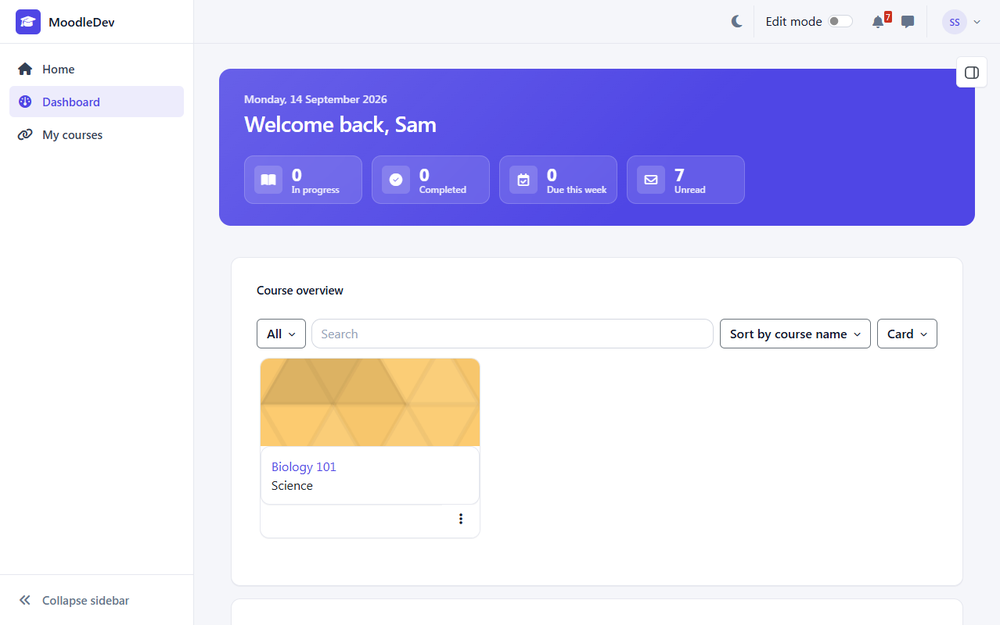
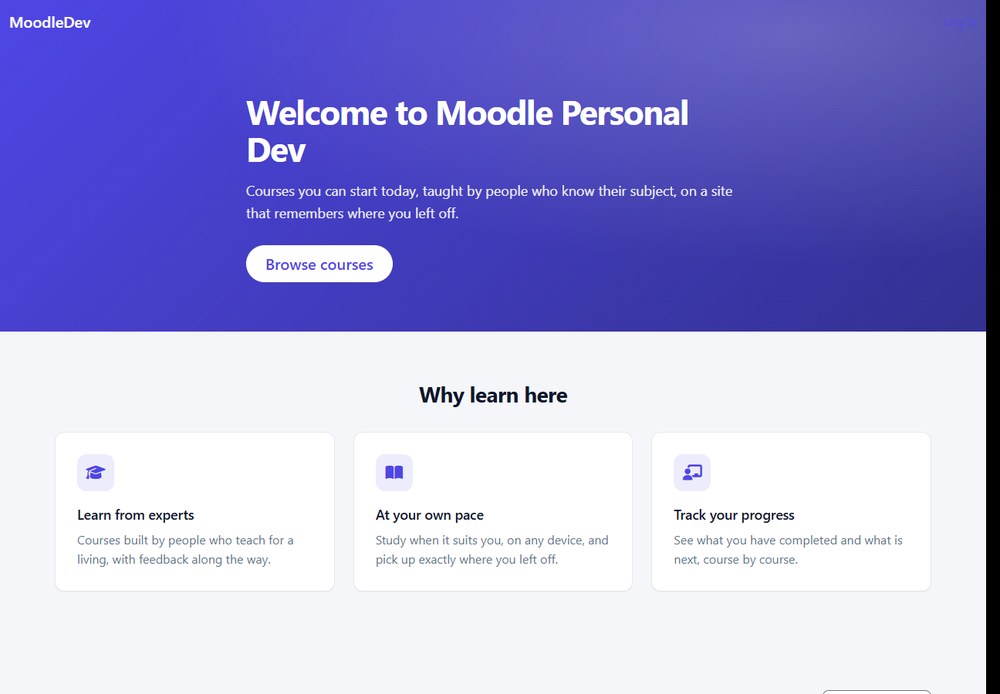
Release 1.1.0: docs, listing copy, screenshots, version

diff --git a/lang/en/theme_atrium.php b/lang/en/theme_atrium.php
@@ -68,7 +68,7 @@ $string['catalogue_view'] = 'View';
 $string['catalogue_view_grid'] = 'Grid';
 $string['catalogue_view_list'] = 'List';
 $string['cataloguesettings'] = 'Catalogue';
-$string['choosereadme'] = 'Atrium is a modern Boost child theme: a left navigation sidebar that collapses to icons, a card dashboard with a greeting and progress tiles, a card course page, dark mode with a per-user switch, five colour presets, a centred login card over a full-bleed image, and a configurable footer. Fonts are bundled; the theme makes no requests to outside services.';
+$string['choosereadme'] = 'Atrium is a modern Boost child theme: a left navigation sidebar that collapses to icons, a designed front page, a course catalogue of cards, a course landing page for enrolment, a card dashboard with a greeting and progress tiles, a card course page with a focus mode, dark mode with a per-user switch, five colour presets, three login layouts, and a configurable footer. Fonts are bundled; the theme makes no requests to outside services unless you turn analytics on.';
 $string['collapsesidebar'] = 'Collapse sidebar';
 $string['configtitle'] = 'Atrium settings';
 $string['course_complete'] = 'Completed';

diff --git a/version.php b/version.php
@@ -25,8 +25,8 @@
 defined('MOODLE_INTERNAL') || die();
 
 $plugin->component = 'theme_atrium';
-$plugin->version = 2026091500;
-$plugin->release = '1.0.0';
+$plugin->version = 2026091501;
+$plugin->release = '1.1.0';
 $plugin->requires = 2025100600; // Moodle 5.1: Boost on Bootstrap 5, the layouts this theme overrides.
 $plugin->supported = [501, 502];
 $plugin->maturity = MATURITY_STABLE;

diff --git a/README.md b/README.md
@@ -23,9 +23,17 @@ requests to outside services.
 | Course page | Sections as cards, activities as rows, with the activity icon in its purpose colour. No template is overridden: editing mode, drag and drop, bulk editing and the activity chooser are Boost's. |
 | Dark mode | A per-user switch in the navigation bar and in the user menu, saved as a preference. The scheme is applied on the server before the page is sent, so there is no flash on load. A site default of light, dark, or *follow the device*. Dark mode can be disabled site-wide. |
 | Presets | Five colour presets, each an accent and a sidebar tone. A brand colour setting overrides the accent; a sidebar tone setting overrides the tone. |
-| Login | One card centred over a full-bleed image with a colour wash whose colour and strength are settings. |
-| Footer | Up to three content columns, social links, a legal line with `{year}` and `{sitename}`, and the Moodle credit as a setting. |
-| Type | Inter, bundled in four weights, with a system fallback stack. Text size and corner radius are settings. |
+| Front page | A designed site home for visitors: hero with image and two buttons, feature blocks, a course showcase (latest, a category, or chosen courses), a numbers strip, testimonials, an about band and a call to action. Every section is a setting and has a switch. |
+| Catalogue | Category and search pages as course cards or a list: image, category, teachers, enrolled count, progress for enrolled users, and the price from fee or PayPal enrolment. Category chips, sort, paging, a search box; the view is remembered per user. |
+| Enrolment page | A course landing page around the enrolment forms: banner, summary, facts, outline, teachers, related courses, and the enrolment card kept in view. |
+| Course banner and focus mode | A banner with the learner's progress and a resume link. Focus mode strips the course and its activities down to the content, with one switch, remembered per user. |
+| Announcement and quick links | A site-wide bar with four tones, dismissible per user until the text changes; a quick links menu of icon links in the navigation bar. |
+| Profile | Core's profile sections as a grid of cards under a cover band. |
+| Login | Three layouts: the card centred over the image, or beside an image panel on the left or the right, with panel copy, text above and below the form, the language menu switch, and "Create new account" as a button. Sign up, forgotten password and MFA share the card. |
+| Header | Brand as logo, site name or both; standard or compact bar; sticky or scrolling; transparent over the front page hero. |
+| Footer | Up to four columns, each custom HTML, a menu, the social links or the contact details; a footer logo, a legal line with `{year}` and `{sitename}`, privacy and terms links, the Moodle credit as a setting. |
+| Type | Inter, bundled in four weights, or the system font. Heading weight, text size and corner radius are settings. |
+| The long tail | Gradebook, quiz, question bank, calendar, messaging, forum, assignment, workshop, backup, participants, admin pages and the rest, on the same tokens in both schemes. |
 
 ## Where it sits beside Boost and the paid themes
 
@@ -35,7 +43,8 @@ requests to outside services.
 | Dashboard | Blocks | Hero, tiles, styled cards | Hero, four tiles, styled cards |
 | Dark mode | No | Some | Yes, per user, no flash |
 | Presets | One | Many, plus a page builder | Five, no builder |
-| Front page builder | No | Yes | No (planned for 1.1) |
+| Front page | Course list | Page builder | Seven designed sections, each a setting |
+| Catalogue and enrolment page | Lists and forms | Cards and a landing page | Cards and a landing page |
 | Fonts | System | Google Fonts, fetched | Bundled, nothing fetched |
 | Price | Free | Paid | Free, GPL |
 
@@ -45,18 +54,27 @@ formats, form builders and page builders are separate plugin types and are not h
 ## How it is built, and why it should survive upgrades
 
 Every template override is a maintenance liability, because core may change what the
-parent template expects. Atrium overrides **four**:
+parent template expects. Atrium overrides **four** Boost templates:
 
 | Template | Why |
 |---|---|
 | `theme_boost/drawers` | Renders the sidebar and the dashboard hero. Copied from Moodle 5.2; Boost's drawers are left as Boost renders them. |
 | `theme_boost/navbar` | Drops the primary navigation (the sidebar carries it), shows the brand only on small screens, adds the scheme switch. |
 | `theme_boost/footer` | A real footer instead of Boost's popover. Every link and fragment the popover contained is still rendered. |
-| `theme_boost/login` | The centred card, on both 5.1 (form rendered into the page) and 5.2 (split `core/login_layout`). |
+| `theme_boost/login` | The three login layouts, on both 5.1 (form rendered into the page) and 5.2 (split `core/login_layout`). |
 
-Everything else, the course page included, is SCSS written against the class names core
-already emits. One renderer method is added (`core_renderer::atrium_footer()`), no
-renderer method is overridden.
+Two core renderers are overridden, in the narrowest way that works:
+
+| Renderer | What changes |
+|---|---|
+| `core_course_renderer` | `course_category()`, `search_courses()` and `enrolment_options()` render the catalogue and the enrolment page from Atrium templates. Every other method is core's. |
+| `core_user\output\myprofile\renderer` | `render_tree()` and `render_category()` wrap core's nodes in cards; the node markup is core's. |
+
+Everything else, the course page and the whole long tail included, is SCSS written
+against the class names core already emits. One renderer method is added
+(`core_renderer::atrium_footer()`). Three hook callbacks (html attributes, head HTML,
+user menu) and three small endpoints (scheme, focus mode, announcement dismissal) carry
+the per-user state, each working without JavaScript.
 
 Colours are CSS custom properties defined in `scss/atrium/_tokens.scss` for the light
 scheme and redefined under `[data-bs-theme="dark"]`. Bootstrap 5.3's own colour-mode
@@ -85,17 +103,26 @@ maintenance decision to take once 1.0 has users, and the tracker is the place to
 
 ## Privacy
 
-Two user preferences, both declared to the privacy API and included in exports:
-`theme_atrium_scheme` (light, dark or system) and `theme_atrium_sidebar` (expanded or
-collapsed). No tables, no external requests, no cookies of its own.
+Five user preferences, all declared to the privacy API and included in exports:
+`theme_atrium_scheme` (light, dark or system), `theme_atrium_sidebar` (expanded or
+collapsed), `theme_atrium_catalogueview` (grid or list), `theme_atrium_focusmode` (on or
+off) and `theme_atrium_announcement` (a fingerprint of the dismissed announcement). No
+tables, no cookies of its own. Fonts are bundled. The theme makes no request to any
+outside service unless an administrator enters a Google Analytics 4 measurement id, in
+which case the Google tag loads with IP anonymisation, not for site administrators, and
+the setting says so.
 
 ## Settings
 
 *Site administration → Appearance → Themes → Atrium.* Tabs: General (preset, brand
-colour, text size, corner radius, dark mode), Sidebar (first-visit state, tone), Login
-page (image, wash colour, wash strength), Dashboard (hero, image, greeting, the four
-tiles), Footer (columns, social links, legal line, Moodle credit), Advanced (raw SCSS
-before and after).
+colour, text size, corner radius, dark mode, font, heading weight), Header (brand,
+height, sticky), Sidebar (first-visit state, tone), Login page (image, wash, layout,
+panel copy, text around the form, language menu, sign-up button), Course (banner, focus
+mode), Dashboard (hero, image, greeting, the four tiles), Front page (every section),
+Catalogue (per page, sort, what the cards show, the enrolment page), Site (announcement,
+quick links), Footer (columns and their types, contact details, logo, legal line,
+privacy and terms links, Moodle credit), Advanced (raw SCSS before and after, custom
+CSS, analytics).
 
 ## Development
 

diff --git a/docs/marketplace-listing.md b/docs/marketplace-listing.md
@@ -11,14 +11,14 @@ characters, of which plugin cards show the first 119; description 7,000; screens
 
 ### First 119 characters, as a standalone sentence
 
-> A modern Boost child theme: left sidebar, card dashboard, card course page, dark mode,
-> five presets, bundled fonts.
+> A modern Boost child theme: sidebar, designed front page, course catalogue, dark
+> mode, three login layouts, every page.
 
 ### Full short description
 
-> A modern Boost child theme: left sidebar, card dashboard, card course page, dark mode,
-> five presets, bundled fonts. Four template overrides, everything else SCSS, so it keeps
-> working across Moodle releases. Nothing is fetched from outside your site.
+> A modern Boost child theme: sidebar, designed front page, course catalogue, dark
+> mode, three login layouts, every page. Four template overrides, everything else SCSS, so
+> it keeps working across Moodle releases. Nothing is fetched from outside your site.
 
 ---
 
@@ -27,9 +27,26 @@ characters, of which plugin cards show the first 119; description 7,000; screens
 ### What it is
 
 Atrium gives Moodle 5.1 and 5.2 the layout people pay for elsewhere: a left navigation
-sidebar that collapses to icons, a dashboard with a greeting and progress tiles, a course
-page made of cards, dark mode with a switch for every user, five colour presets and a
-configurable footer. It is a Boost child, so everything Boost does keeps working.
+sidebar that collapses to icons, a designed front page, a course catalogue of cards, a
+course landing page for enrolment, a dashboard with a greeting and progress tiles, a
+course page made of cards with a focus mode, dark mode with a switch for every user, five
+colour presets, three login layouts and a configurable footer. It is a Boost child, so
+everything Boost does keeps working.
+
+### Front page
+
+Seven sections, each with its own settings and switch: a hero with image and two
+buttons, feature blocks, a course showcase (the latest courses, a category, or courses
+you choose), a numbers strip, testimonials, an about band and a call to action. The
+navigation bar can go transparent over the hero.
+
+### Catalogue and enrolment
+
+Category and search pages become course cards or a list, with image, category,
+teachers, enrolled count, progress for enrolled users and the price from fee or PayPal
+enrolment; category chips, sorting, paging and search, the view remembered per user.
+The enrolment page is a course landing page: banner, summary, facts, outline, teachers,
+related courses, and the enrolment card kept in view.
 
 ### Navigation
 
@@ -47,9 +64,27 @@ is not slowed.
 
 ### Course page
 
-Sections as cards, activities as rows with the activity icon in its purpose colour.
-No template is overridden here, which means editing mode, drag and drop, bulk editing
-and the activity chooser are exactly Boost's.
+Sections as cards, activities as rows with the activity icon in its purpose colour, and
+a banner with the learner's progress and a resume link. Focus mode strips the course and
+its activities down to the content with one switch, remembered per user. No template is
+overridden here, which means editing mode, drag and drop, bulk editing and the activity
+chooser are exactly Boost's.
+
+### Site-wide
+
+An announcement bar with four tones, dismissible per user until the text changes. A
+quick links menu of icon links in the navigation bar. The profile page as a grid of
+cards under a cover band. Gradebook, quiz, calendar, messaging, forum, admin pages and
+the rest on the same tokens in both schemes.
+
+### Login, header, footer
+
+Three login layouts: the card centred over the image, or beside an image panel on the
+left or the right, with panel copy, text above and below the form, a language menu
+switch and "Create new account" as a button. The brand as logo, site name or both; a
+standard or compact navigation bar, sticky or scrolling. Up to four footer columns, each
+custom HTML, a menu, the social links or the contact details, with a footer logo and
+privacy and terms links.
 
 ### Dark mode
 
@@ -60,9 +95,8 @@ A site default of light, dark, or follow the device. Dark mode can be disabled s
 ### Presets and settings
 
 Atrium, Indigo dark, Emerald, Rose and Slate. A brand colour overrides the preset's
-accent; a sidebar tone overrides its tone. Text size, corner radius, login image and
-wash, dashboard greeting and image, footer columns, social links and legal line, raw
-SCSS before and after.
+accent; a sidebar tone overrides its tone. Inter (bundled) or the system font, heading
+weight, text size, corner radius, raw SCSS before and after, custom CSS.
 
 ### Accessibility
 
@@ -72,15 +106,18 @@ conveyed by colour alone. Reduced-motion preferences are respected.
 
 ### Privacy
 
-Two user preferences (scheme and sidebar state), declared to the privacy API and
-included in exports. No tables. No cookies of its own. Fonts are bundled; nothing is
-fetched from outside your site.
+Five user preferences (scheme, sidebar state, catalogue view, focus mode, dismissed
+announcement), declared to the privacy API and included in exports. No tables. No
+cookies of its own. Fonts are bundled; nothing is fetched from outside your site unless
+you enter a Google Analytics 4 id, which is off by default.
 
 ### Built to last
 
-Four Boost templates are overridden (drawers, navbar, footer, login layout). Everything
-else, the course page included, is SCSS against the class names core already emits. That
-is the whole point: fewer overrides, fewer things to break on a Moodle release.
+Four Boost templates are overridden (drawers, navbar, footer, login layout) and two
+renderers in the narrowest way (the catalogue and enrolment page, the profile cards).
+Everything else, the course page included, is SCSS against the class names core already
+emits. That is the whole point: fewer overrides, fewer things to break on a Moodle
+release.
 
 ### Supported versions
 

diff --git a/CHANGES.md b/CHANGES.md
@@ -1,6 +1,6 @@
 # Changes
 
-## 1.1.0 (unreleased)
+## 1.1.0 (2026-09-15)
 
 Every page, not only the shell. Moodle 5.1 and 5.2.
 
